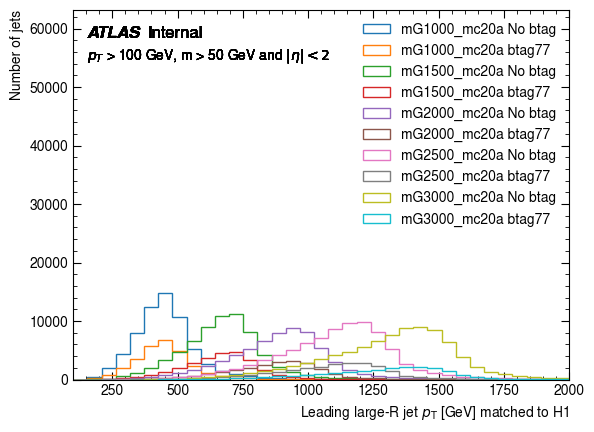
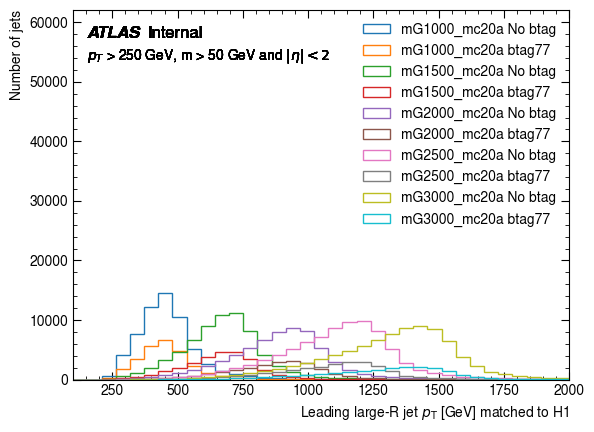
Update plots for truth matched bosons

diff --git a/plot_truth_matched_bosons.py b/plot_truth_matched_bosons.py
@@ -220,7 +220,7 @@ def draw_largeR_jets(largeR_dict):
     fig_truth_matched_to_H2_jetPt, ax_truth_matched_to_H2_jetPt = plts.subplots()
     fig_truth_matched_to_H1H2_jetM, ax_truth_matched_to_H1H2_jetM = plts.subplots()
 
-    pt_cut = 100
+    pt_cut = 250
     m_cut = 50
     eta_cut = 2
     cuts_label = f"$p_T$ > {pt_cut} GeV, m > {m_cut} GeV and $|\eta| < {eta_cut}$"
